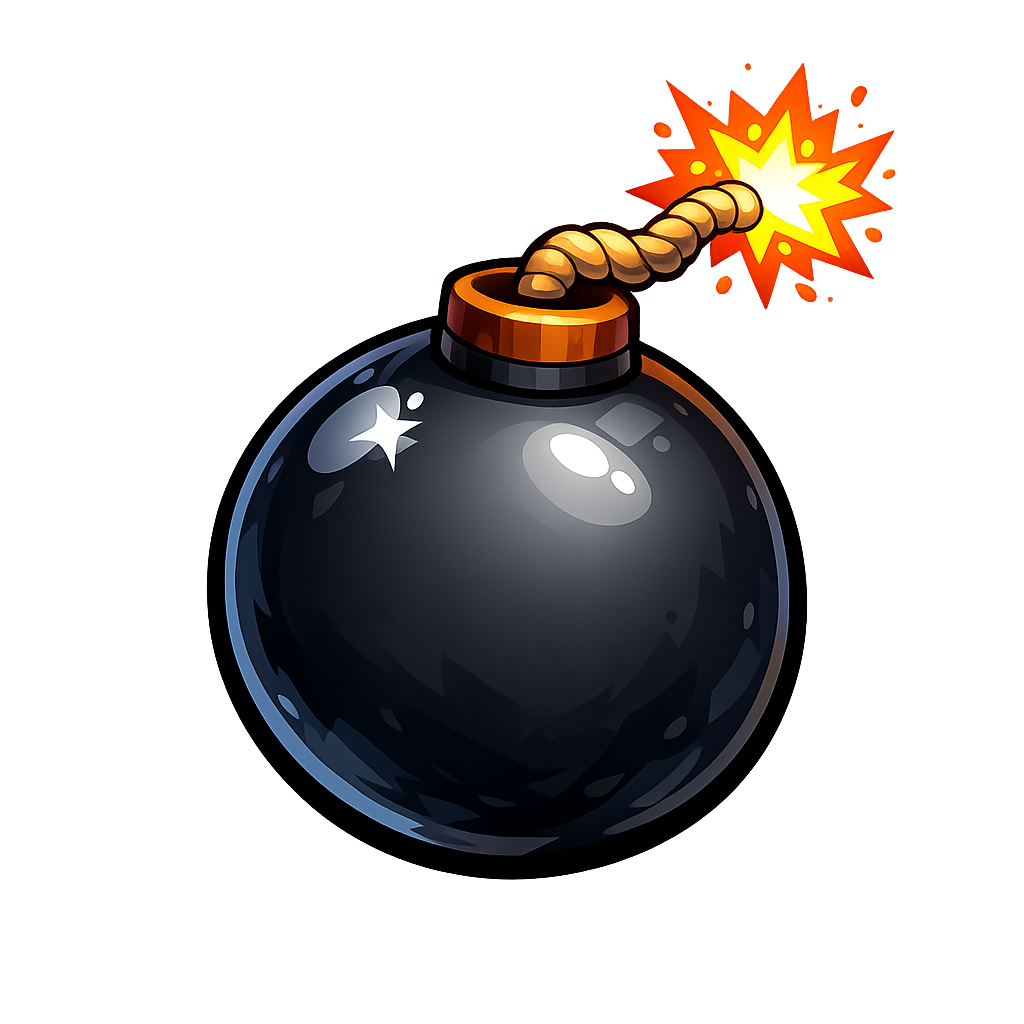
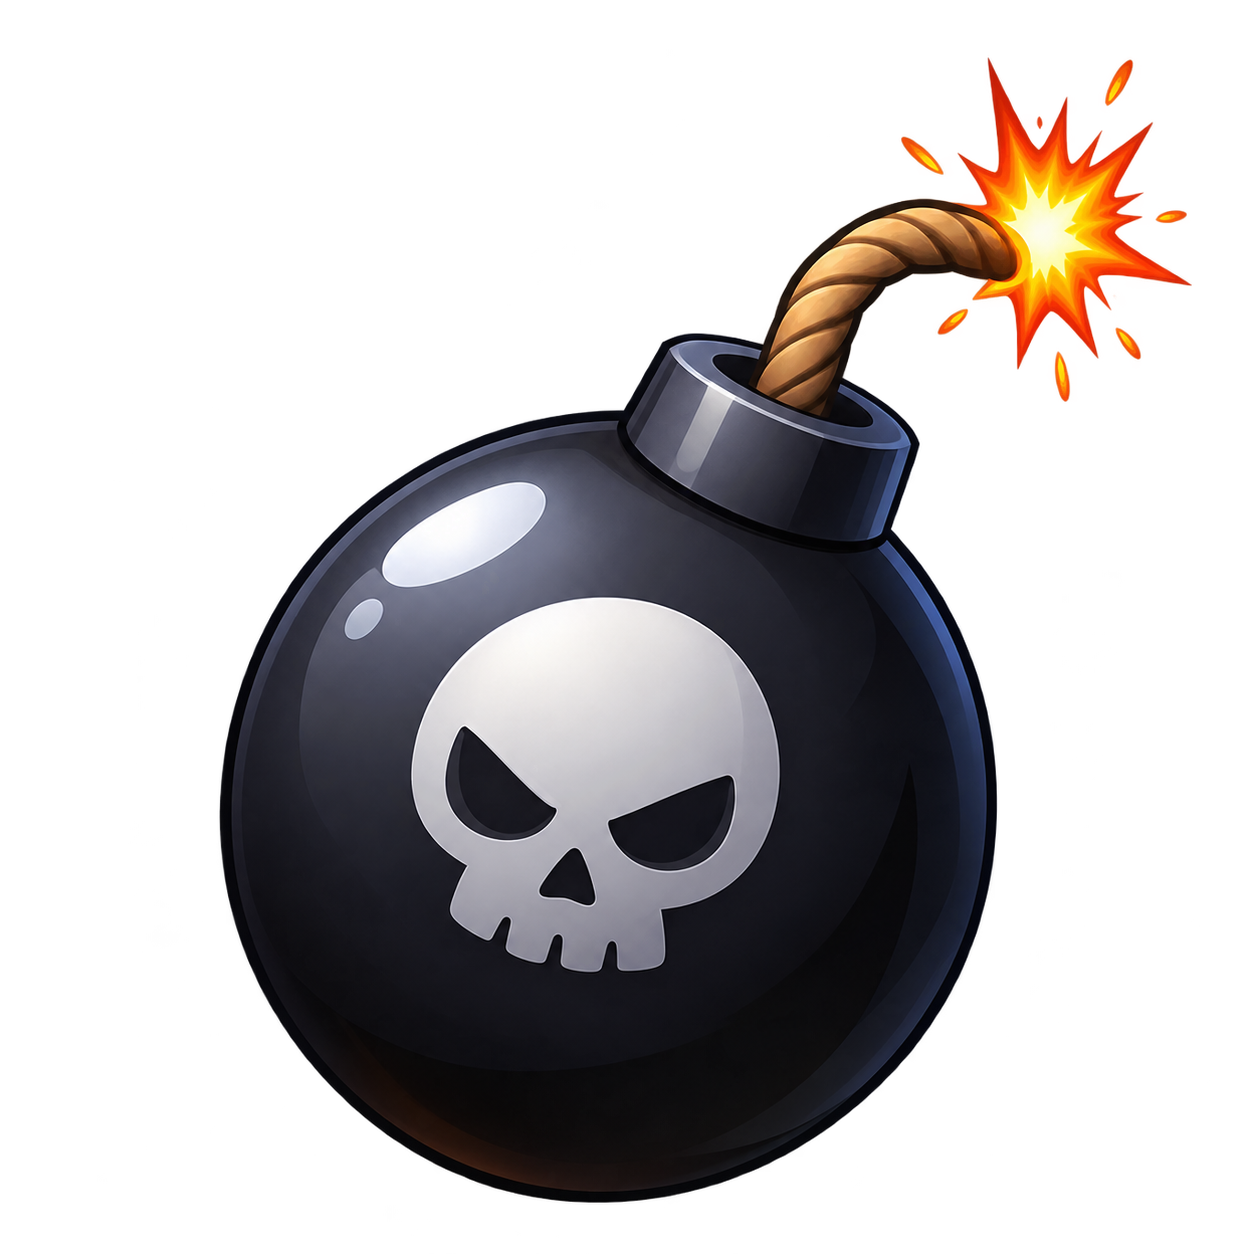
Assets added

diff --git a/script.js b/script.js
@@ -5,12 +5,17 @@ const ctx = canvas.getContext("2d");
 canvas.width = Math.min(window.innerWidth, 600);
 canvas.height = Math.min(window.innerHeight, 800);
 
+//Sounds
+const sliceSound = new Audio("assets/slice.mp3");
+const bombSound = new Audio("assets/bomb.mp3");
+const gameOverSound = new Audio("assets/gameover.mp3");
 //Variables
 let fruits = [];
 let score = 0;
-let highscore = Number(localStorage.getItem("highscore")) || 0;
+let highScore = Number(localStorage.getItem("highscore")) || 0;
 let combo = 0;
-let spwanTimer = 0;
+let spawnTimer = 0;
+//Start Screen
 let started = false;
 let paused = false;
 const gravity = 0.25;
@@ -100,7 +105,11 @@ class Fruit {
         this.vy = -(Math.random() * 6 + 12);
         this.color = `hsl(${Math.random() * 360},80%,60%)`;
         this.image = new Image();
-        this.image.src = fruitImages[Math.floor(Math.random() * fruitImages.length)];
+
+        this.image.src =
+            fruitImages[
+            Math.floor(Math.random() * fruitImages.length)
+            ];
     }
     update() {
         this.x += this.vx;
@@ -109,13 +118,21 @@ class Fruit {
         this.vy += gravity;
     }
     draw() {
+
         ctx.drawImage(
+
             this.image,
+
             this.x - this.radius,
+
             this.y - this.radius,
+
             this.radius * 2,
+
             this.radius * 2
+
         );
+
     }
 }
 
@@ -137,13 +154,21 @@ class Bomb {
         this.vy += gravity;
     }
     draw() {
+
         ctx.drawImage(
+
             this.image,
+
             this.x - this.radius,
+
             this.y - this.radius,
+
             this.radius * 2,
+
             this.radius * 2
+
         );
+
     }
 }
 
@@ -171,8 +196,9 @@ function spawnObject() {
 
 //Every Sec Spawn
 setInterval(() => {
-    if (spwanSpeed > 300) {
-        spwanSpeed -= 100;
+    spawnTimer++;
+    if (spawnSpeed > 300) {
+        spawnSpeed -= 100;
     }
     if (bombChance < 0.4) {
         bombChance += 0.03;
@@ -358,6 +384,9 @@ function gameLoop() {
     if (started && !gameOver) {
         update();
         sliceFruit();
+    }
+    else if (!paused) {
+        update();
     }
     else {
         draw();
